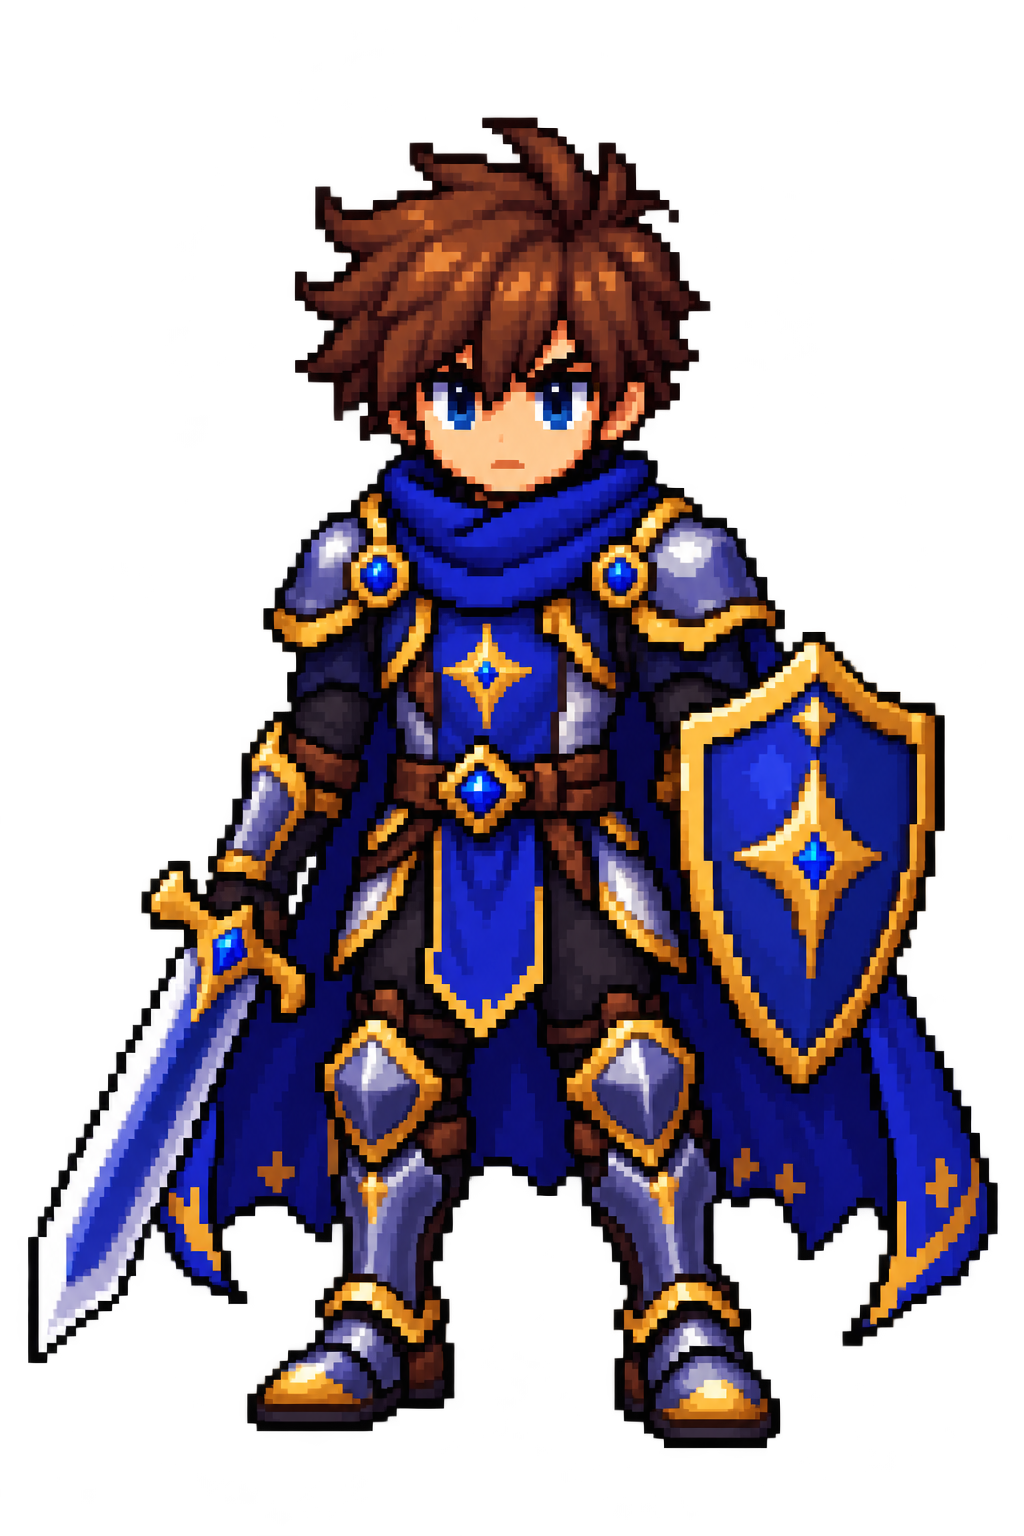
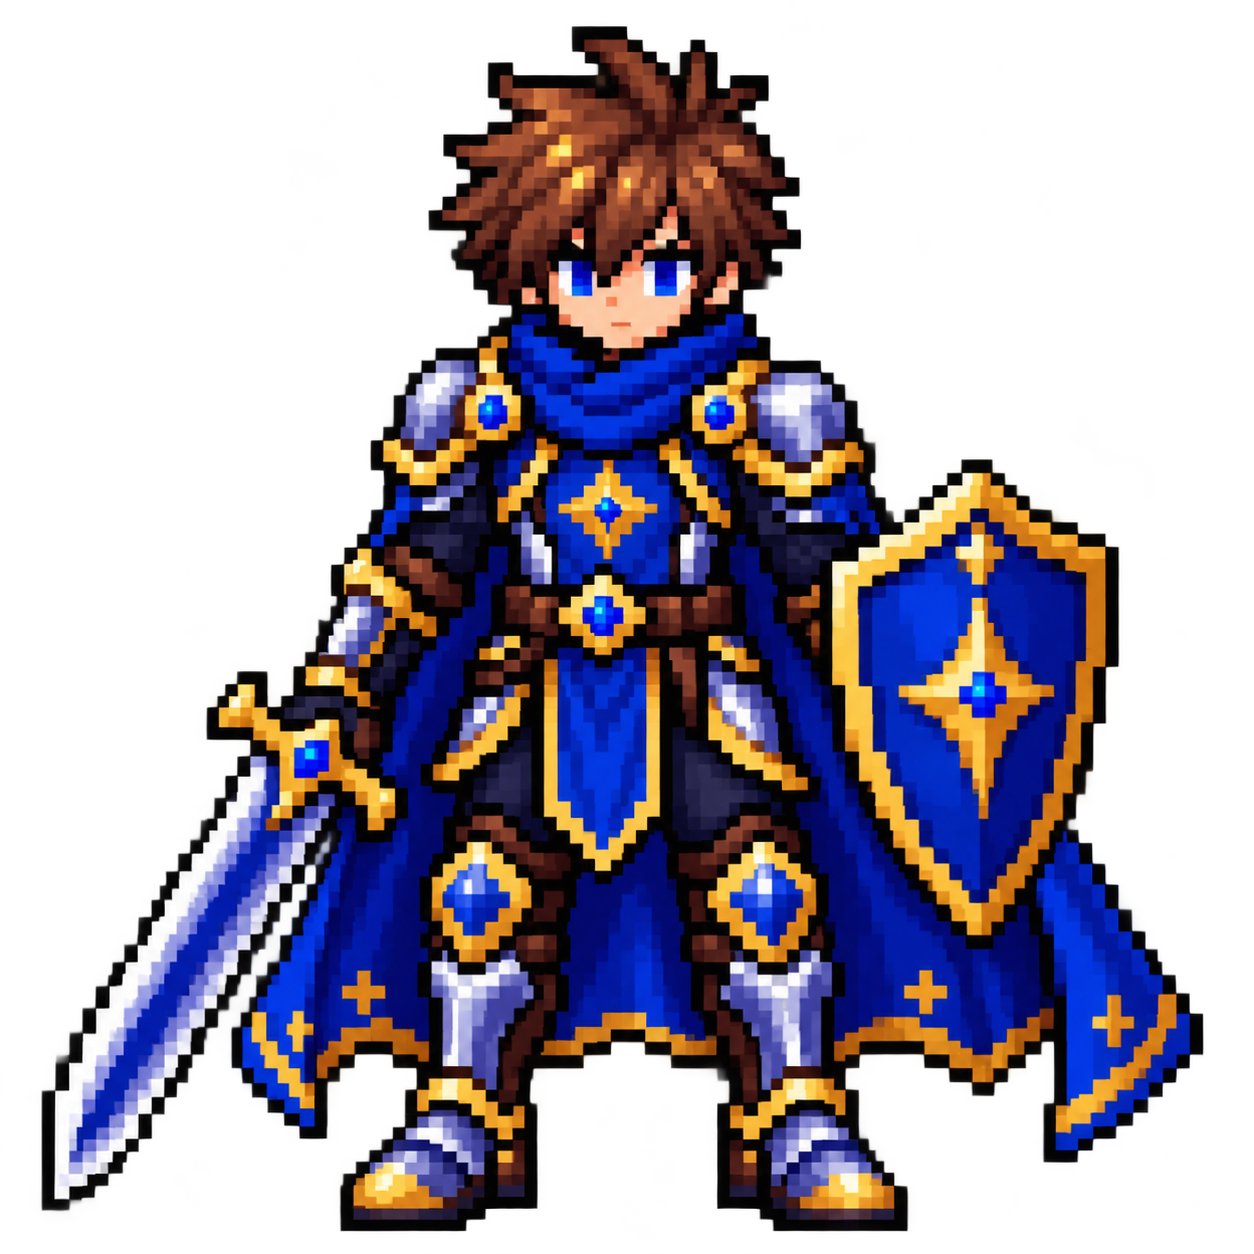
style: ajusta personagens e atualiza elenco do projeto

diff --git a/css/historia.css b/css/historia.css
@@ -143,11 +143,11 @@ a {
    ===================================================== */
 
 .story-intro .story-character.story-character--scene-1 {
-  bottom: clamp(-22rem, -6vw, 10rem);
+  bottom: clamp(-22rem, -1.5vw, 15rem);
 
-  left: clamp(1rem, 10vw, 15rem);
+  left: clamp(1rem, 6vw, 15rem);
 
-  width: clamp(380px, 40vw, 690px);
+  width: clamp(380px, 45vw, 1000px);
 }
 
 .story-intro .story-character.story-character--scene-2 {
@@ -159,11 +159,11 @@ a {
 }
 
 .story-intro .story-character.story-character--scene-3 {
-  bottom: clamp(-14rem, -6vw, 10rem);
+  bottom: clamp(-14rem, -1vw, 15rem);
 
   left: clamp(1rem, 4vw, 10rem);
 
-  width: clamp(460px, 52vw, 780px);
+  width: clamp(460px, 45vw, 780px);
 }
 
 .story-intro .story-character.story-character--scene-4 {
@@ -403,29 +403,29 @@ a {
 
 #final-scene .final-character--scene-1,
 #final-scene .final-character--scene-5 {
-  bottom: clamp(-22rem, -4vw, 10rem);
-  left: clamp(1rem, 9vw, 10rem);
-  width: clamp(380px, 45vw, 690px);
+  bottom: clamp(-22rem, -1vw, 15rem);
+  left: clamp(1rem, 4vw, 10rem);
+  width: clamp(380px, 45vw, 1000px);
 }
 
 #final-scene .final-character--scene-2,
 #final-scene .final-character--scene-6 {
-  bottom: clamp(-22rem, -10vw, 10rem);
+  bottom: clamp(-22rem, -1.5vw, 15rem);
   left: clamp(1rem, 8vw, 10rem);
-  width: clamp(380px, 45vw, 690px);
+  width: clamp(380px, 50vw, 1000px);
 }
 
 #final-scene .final-character--scene-3,
 #final-scene .final-character--scene-7 {
-  bottom: clamp(-14rem, -6vw, 6rem);
+  bottom: clamp(-14rem, -1.5vw, 15rem);
   left: clamp(1rem, 4vw, 10rem);
-  width: clamp(460px, 52vw, 780px);
+  width: clamp(460px, 45vw, 1000px);
 }
 
 #final-scene .final-character--scene-4 {
-  bottom: clamp(-22rem, -8vw, 10rem);
-  left: clamp(1rem, 9vw, 10rem);
-  width: clamp(380px, 45vw, 690px);
+  bottom: clamp(-22rem, -1.5vw, 15rem);
+  left: clamp(1rem, 6vw, 10rem);
+  width: clamp(380px, 50vw, 1000px);
 }
 
 /*

diff --git a/pages/mapa.html b/pages/mapa.html
@@ -276,13 +276,14 @@
         </p>
 
         <h2>
-          ELENCO
+          ELENCO DO PROJETO
         </h2>
 
         <p>
-          O MAGO EXPONENCIAL<br />
-          POTENCIUS<br />
-          OS GUARDIÕES DO REINO
+          RUAN BORGES SILVEIRA<br>
+          VINÍCIUS DA SILVA GALDINO<br>
+          GUSTAVO GABRIEL TEIXEIRA<br>
+          MATEUS LUMERTS FERREIRA
         </p>
 
         <p class="credits-dedication">
